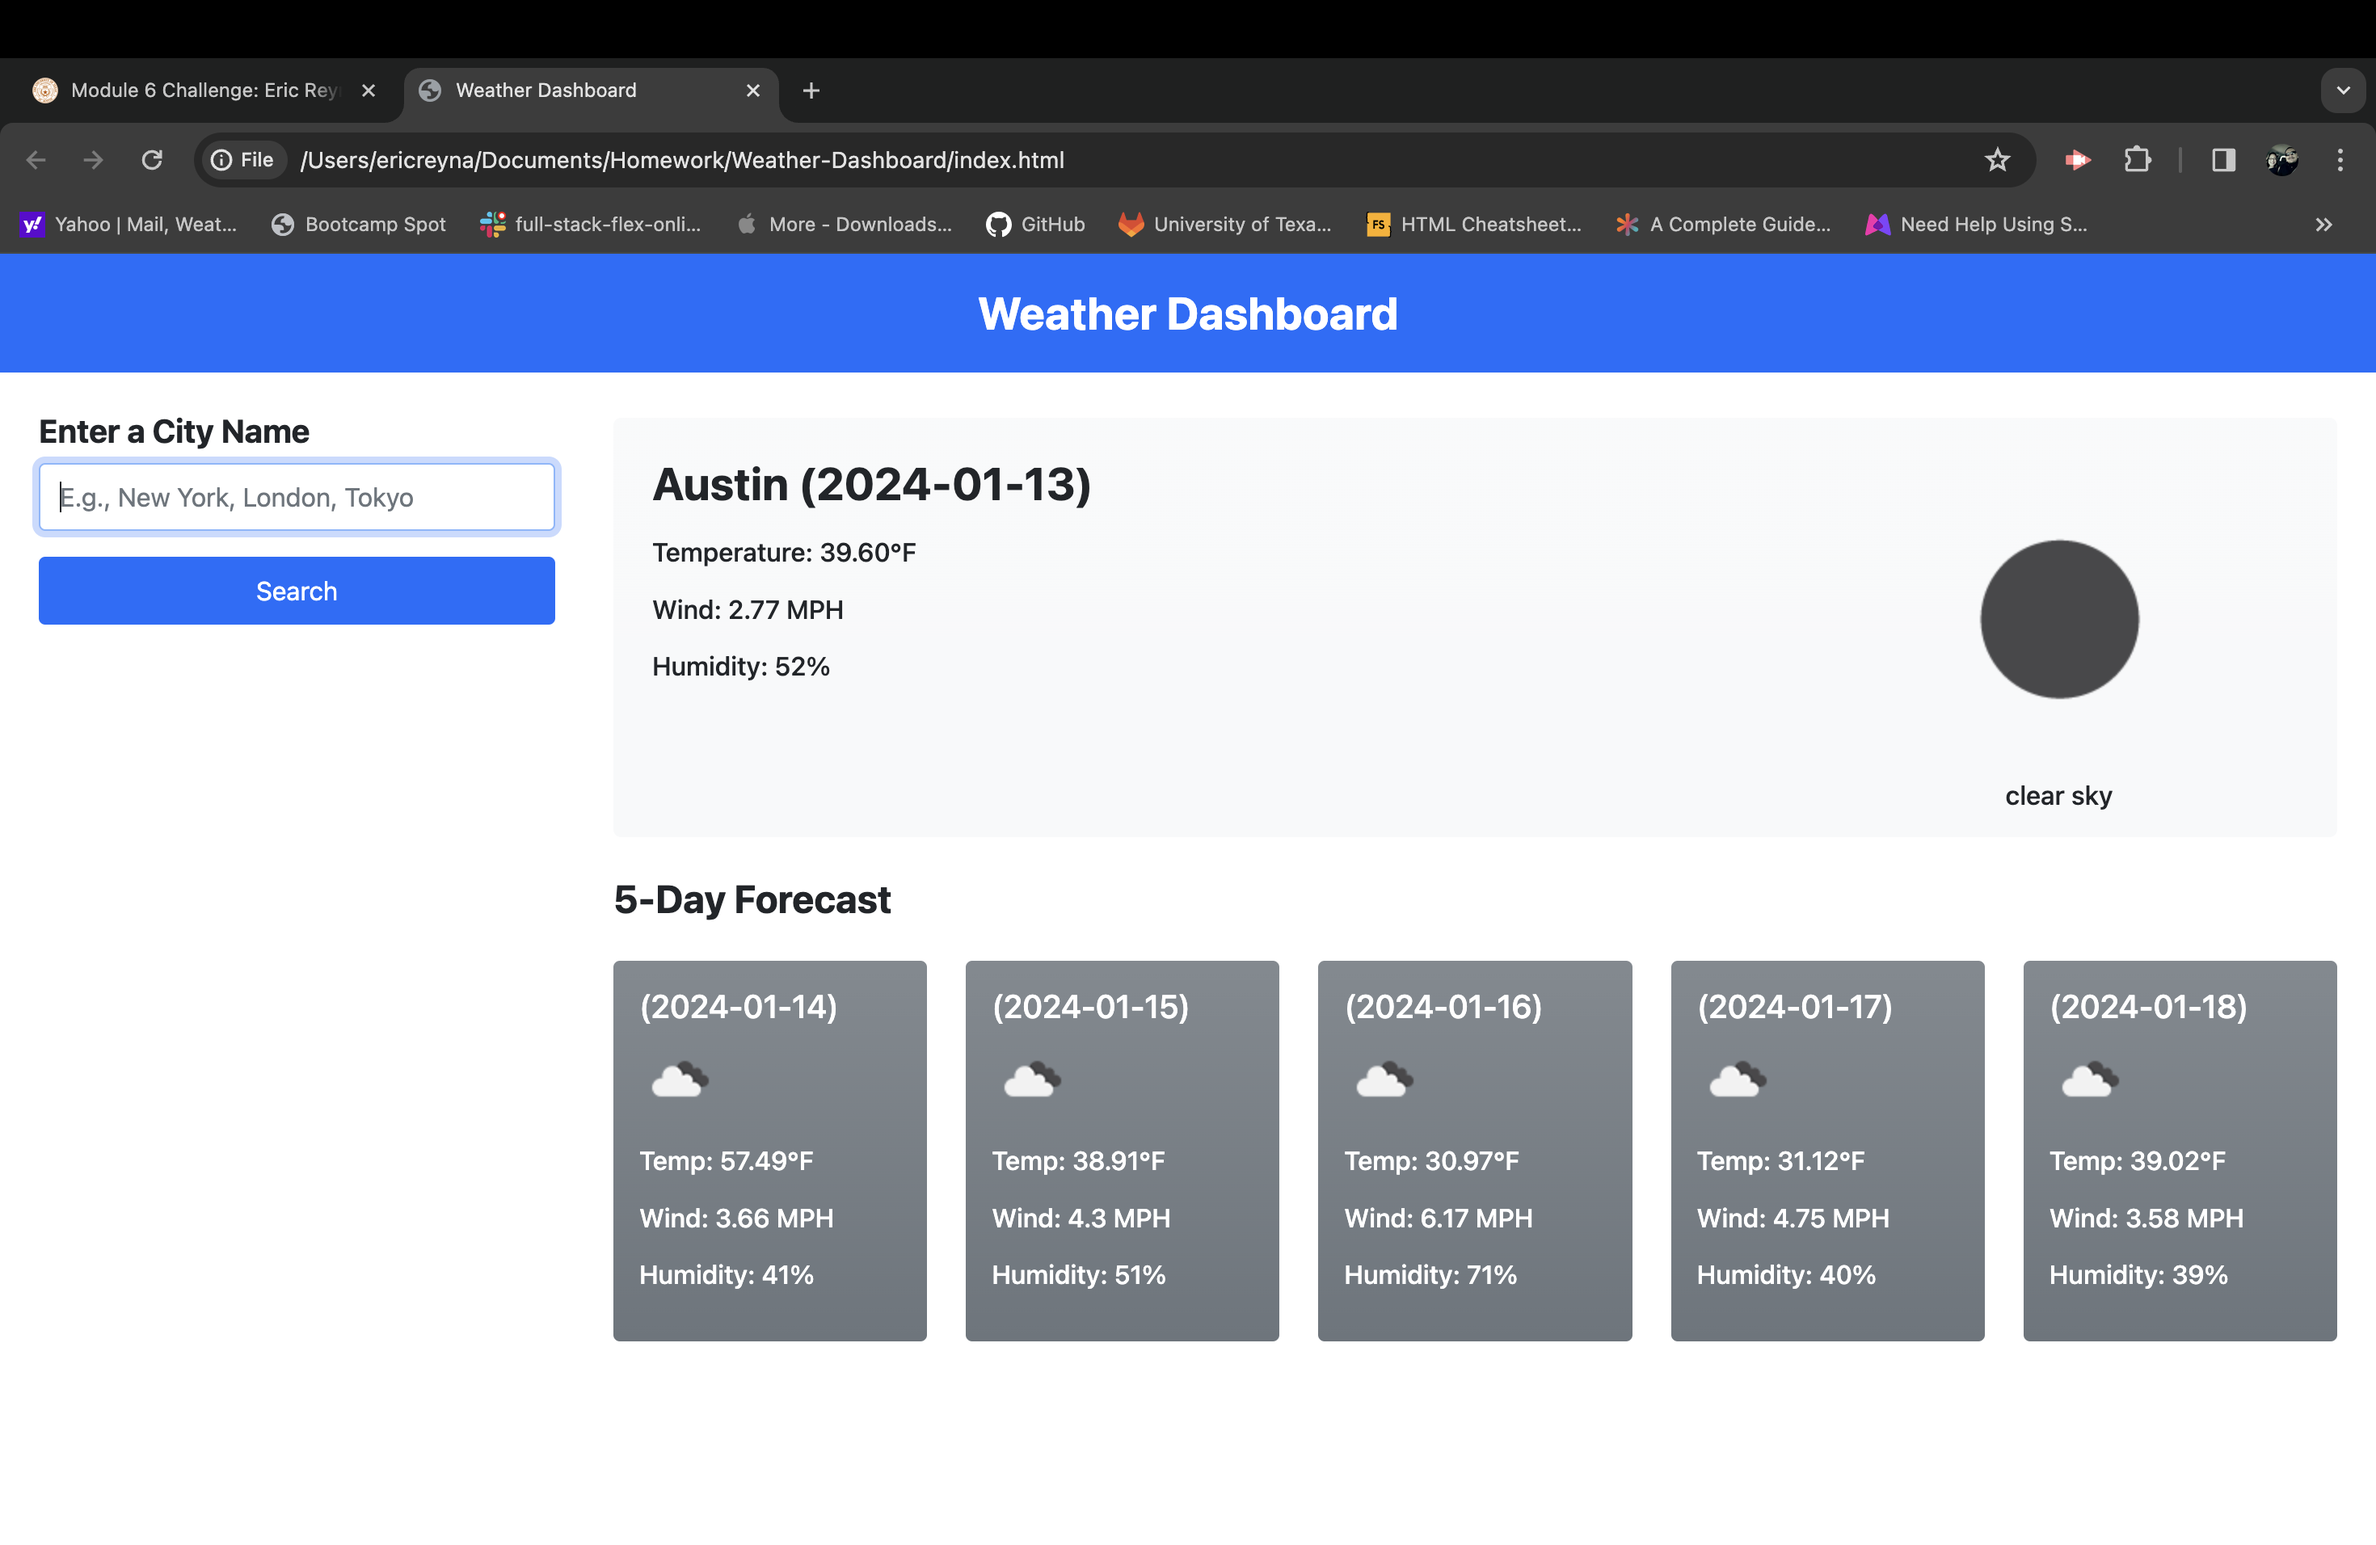
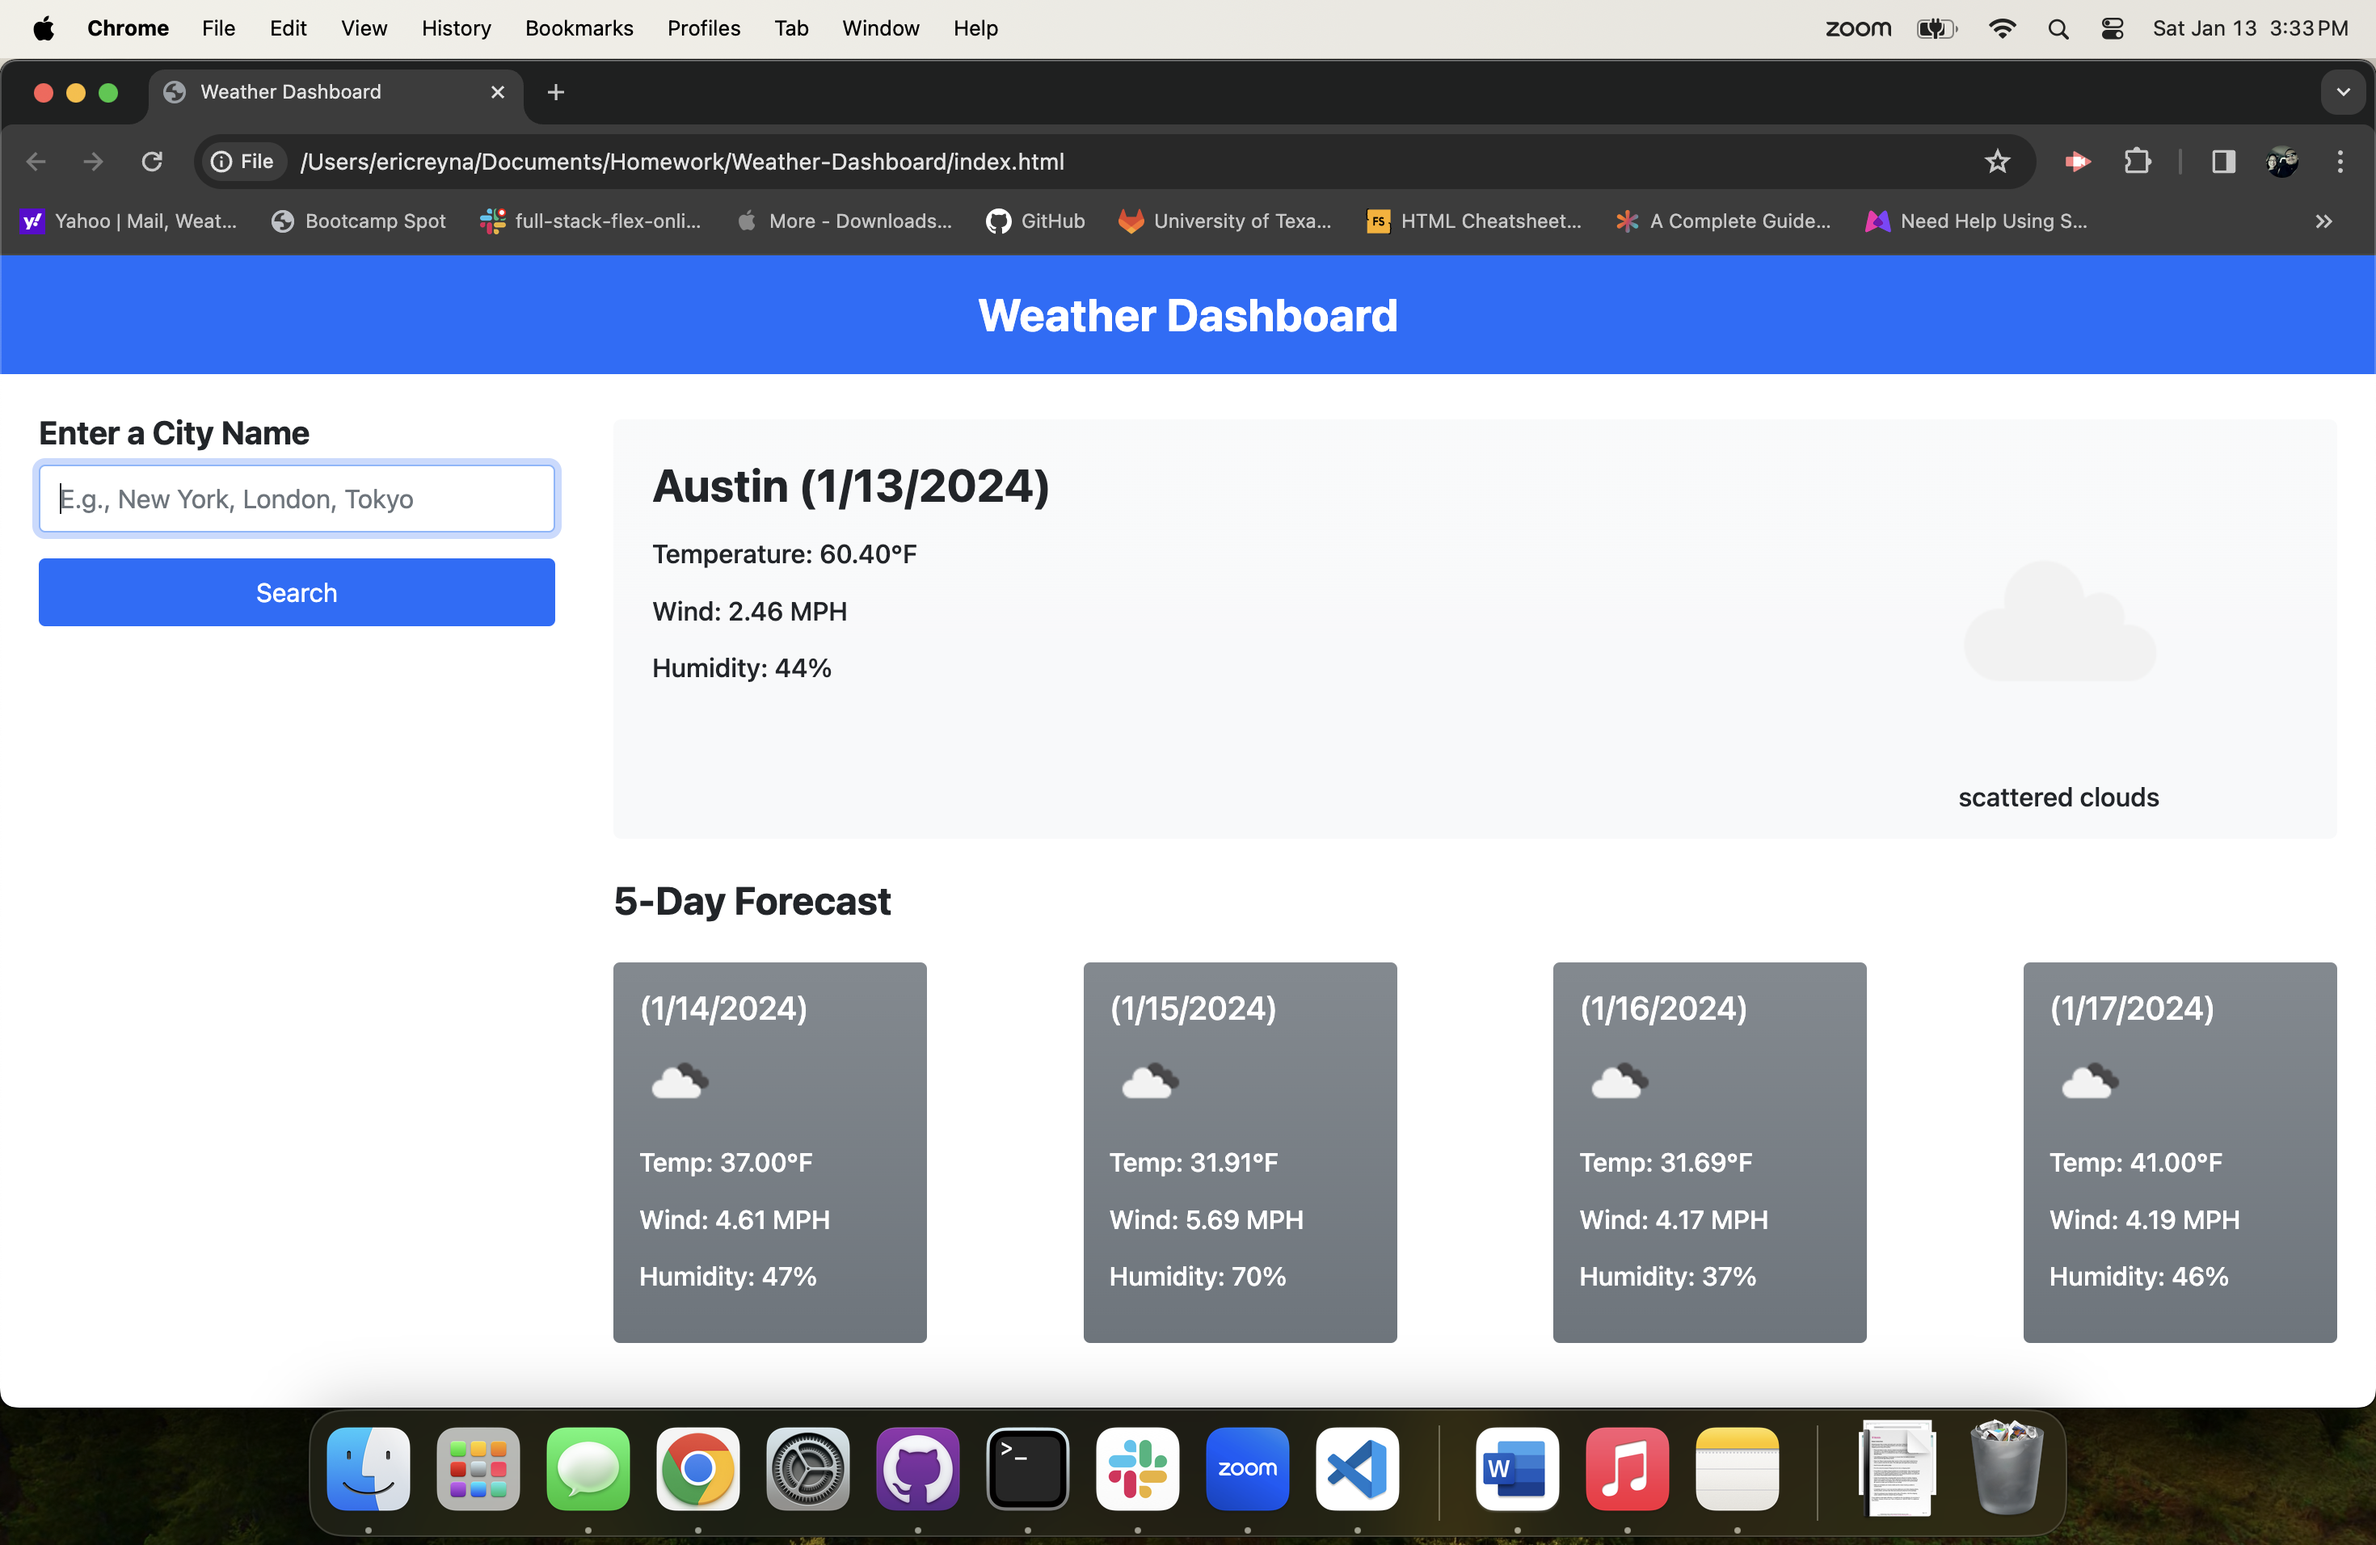
made changes to javascript date and screenshot in readme

diff --git a/Assets/js/script.js b/Assets/js/script.js
@@ -10,10 +10,12 @@ const celsiusToFahrenheit = (celsius) => {
 };
 
 const createWeatherCard = (cityName, weatherItem, index) => {
+    const date = new Date(weatherItem.dt_txt + ' UTC');
+
     if (index === 0) {
         return `<div class="mt-3 d-flex justify-content-between">
                     <div>
-                        <h3 class="fw-bold">${cityName} (${weatherItem.dt_txt.split(" ")[0]})</h3>
+                        <h3 class="fw-bold">${cityName} (${date.toLocaleDateString()})</h3>
                         <h6 class="my-3 mt-3">Temperature: ${celsiusToFahrenheit(weatherItem.main.temp - 273.15).toFixed(2)}°F</h6>
                         <h6 class="my-3">Wind: ${weatherItem.wind.speed} MPH</h6>
                         <h6 class="my-3">Humidity: ${weatherItem.main.humidity}%</h6>
@@ -27,7 +29,7 @@ const createWeatherCard = (cityName, weatherItem, index) => {
         return `<div class="col mb-3">
                     <div class="card border-0 bg-secondary bg-gradient text-white">
                         <div class="card-body p-3 text-white">
-                            <h5 class="card-title fw-semibold">(${weatherItem.dt_txt.split(" ")[0]})</h5>
+                            <h5 class="card-title fw-semibold">(${date.toLocaleDateString()})</h5>
                             <img src="https://openweathermap.org/img/wn/${weatherItem.weather[0].icon}.png" alt="weather icon">
                             <h6 class="card-text my-3 mt-3">Temp: ${celsiusToFahrenheit(weatherItem.main.temp - 273.15).toFixed(2)}°F</h6>
                             <h6 class="card-text my-3">Wind: ${weatherItem.wind.speed} MPH</h6>
@@ -37,6 +39,7 @@ const createWeatherCard = (cityName, weatherItem, index) => {
                 </div>`;
     }
 };
+
 // Get weather details of passed latitude and longitude
 const getWeatherDetails = (cityName, latitude, longitude) => {
     const WEATHER_API_URL = `https://api.openweathermap.org/data/2.5/forecast?lat=${latitude}&lon=${longitude}&appid=${API_KEY}`;
@@ -66,6 +69,7 @@ const getWeatherDetails = (cityName, latitude, longitude) => {
         alert("An error occurred while fetching the weather forecast!");
     });
 }
+
 // Get coordinates of entered city name
 const getCityCoordinates = () => {
     const cityName = cityInput.value.trim();
@@ -80,6 +84,7 @@ const getCityCoordinates = () => {
         alert("An error occurred while fetching the coordinates!");
     });
 }
+
 searchButton.addEventListener("click", () => getCityCoordinates());
 
 // Add an event listener for the "Enter" key on the cityInput field

diff --git a/README.md b/README.md
@@ -17,7 +17,7 @@ I used these websites to refrence codes and help me build my portfolio. https://
 
 
   
-I have also addded a screenshot ![screenshot](image.png)
+I have also addded a screenshot ![Screenshot](image.png)
 
 Deployed Application link [] https://ereyna21.github.io/Weather-Dashboard/
 
